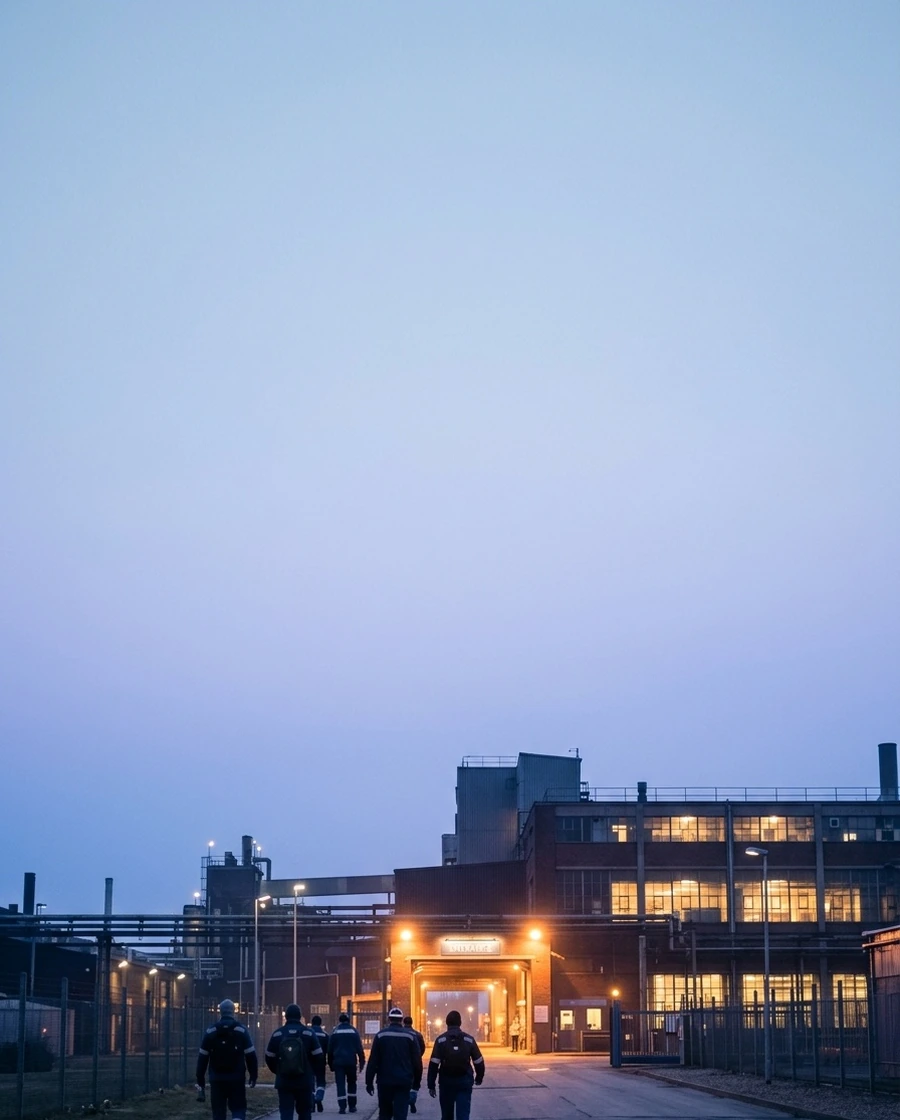
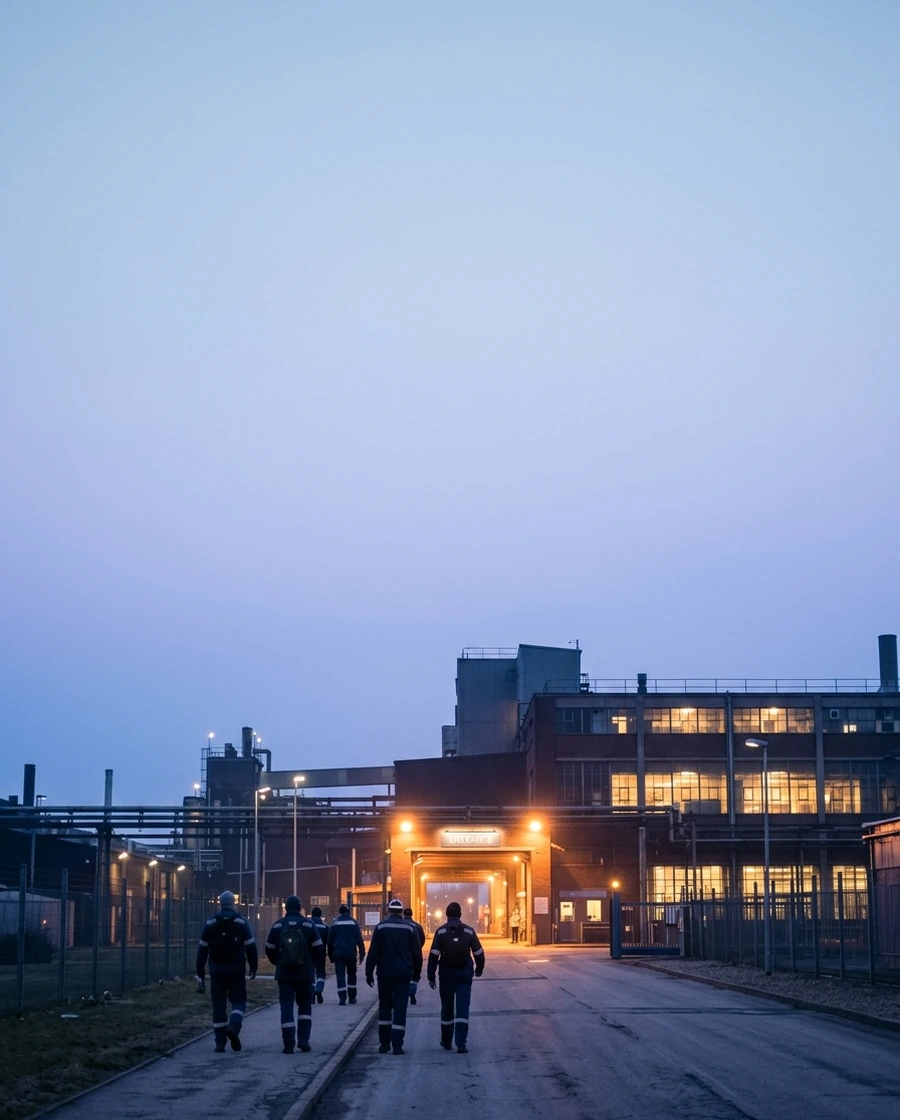
home: foto do SMETA de volta ao enquadramento anterior (sem a descida de 9%)

diff --git a/index.html b/index.html
@@ -2612,7 +2612,7 @@ body>*{position:relative;z-index:1}
         </div>
       </article>
       <article class="sh-col sh-col--sedex">
-        <img class="sh-foto" src="img/flow-smeta-cor-bayer-fl.webp?v=29092026c" data-lum="img/flow-smeta-cor-fl.webp?v=29092026c" alt="" loading="eager" decoding="sync" fetchpriority="high">
+        <img class="sh-foto" src="img/flow-smeta-cor-bayer-fl.webp?v=29092026d" data-lum="img/flow-smeta-cor-fl.webp?v=29092026d" alt="" loading="eager" decoding="sync" fetchpriority="high">
         <div class="sh-conteudo">
           <div>
             <span class="sh-indice">[ 03 ]</span>

diff --git a/_ferramentas/fotos_cor.py b/_ferramentas/fotos_cor.py
@@ -61,7 +61,7 @@ FONTE = {
     # 29/09: as quatro fotos feitas no Google Flow (Nano Banana 2) para a tira de teste
     'flow-carbono': 'flow-gestao-carbono-4-recorte.jpg',   # 29/09: a 4a, recortada para o lago ocupar 1/4 como no ESG (o cru inteiro e -4.jpg); antes -2 (chamine) e a 1a
     'flow-iso': 'flow-implantacao-iso-2.jpg',   # 29/09: a 2a (o predio de vidro); a 1a era flow-implantacao-iso.jpg
-    'flow-smeta': 'flow-smeta-2-recorte.jpg',   # 29/09: descida 9% (ceu esticado no alto) para alinhar o ceu com as outras; o cru e -2.jpg   # 29/09: a 2a (operarios chegando ao portao); a 1a era flow-smeta.jpg
+    'flow-smeta': 'flow-smeta-2.jpg',   # 29/09: a 2a, SEM recorte (a descida de 9% foi desfeita a pedido); o -recorte fica no disco   # 29/09: a 2a (operarios chegando ao portao); a 1a era flow-smeta.jpg
     'flow-esg': 'flow-gestao-carbono-3.jpg',   # 29/09: o lago claro (nome do arquivo cru ficou -carbono-3, era para o ESG); a 1a era flow-esg-sustentabilidade.jpg
 }
 # vaga -> (largura da reserva, altura da reserva, [(assunto, arquivo-base, ax, ay)])
